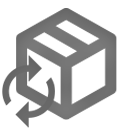
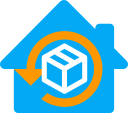
:tada: Release of add-on Remote Backup 2022.12.0

diff --git a/remote-backup/CHANGELOG.md b/remote-backup/CHANGELOG.md
@@ -1,3 +1,7 @@
-- Message typo fix #73
+# 2022.12.0
+- Bump Base Image to 13.0.0
+- extend connection debug messages #77
+- Logo #78
+- Add null option #83
 
-**Full Changelog**: https://github.com/ikifar2012/remote-backup-addon/compare/2022.9.3...2022.9.4
+**Full Changelog**: https://github.com/ikifar2012/remote-backup-addon/compare/2022.9.4...2022.12.0
